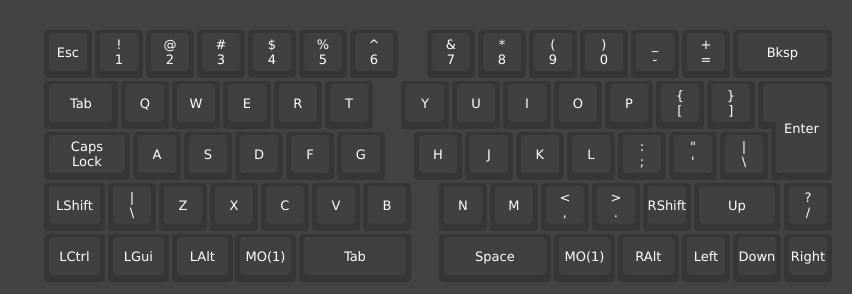
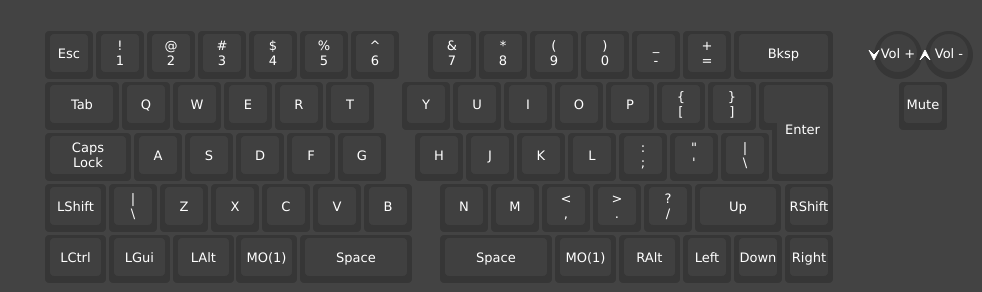
update images and delate and unnecessary KC_code

diff --git a/keymaps/vial/keymap.c b/keymaps/vial/keymap.c
@@ -53,7 +53,7 @@ const uint16_t PROGMEM keymaps[][MATRIX_ROWS][MATRIX_COLS] = {
 // Layer 2: _SECOND - Fn Layer (tasti funzione)
     [2] = LAYOUT_g(
 //  ┌─────────┬──────────┬──────────┬──────────┬──────────┬──────────┬──────────┬    ┌─────────┬──────────┬────────────┬──────────┬──────────┬──────────┬──────────────────┐
-     _______,   KC_BRIU,    KC_BRID,  _______,   KC_MUTE,   KC_VOLU,    KC_VOLD,      _______,   _______,     _______,    _______, LGUI(KC_SPACE), _______,       KC_SLEP,
+     _______,   KC_BRIU,    KC_BRID,  _______,   KC_MUTE,   KC_VOLU,    KC_VOLD,      _______,   _______,     _______,    _______, _______,     _______,       KC_SLEP,
 //  ├─────────┴────┬─────┴────┬─────┴────┬─────┴────┬─────┴────┬─────┴────┬─────┴    ├───┬─────┴── ──┬─────┴─────┬─────┴────┬─────┴────┬─────┴────┬─────┴────┬─────────────┤   ┌───────────┐
         _______,      _______,    _______,    _______,   _______,   _______,    _______,  _______,   _______,      _______,   _______,   _______,   _______,                      _______,
 //  ├──────────────┴─┬────────┴─┬────────┴┬─────────┴┬─────────┴┬─────────┴─     ├───────┴─┬─────────┴┬──────────┴┬─────────┴┬─────────┴┬─── ─────┴┬─────────┴───┬         ┤   └───────────┘
@@ -71,7 +71,7 @@ const uint16_t PROGMEM keymaps[][MATRIX_ROWS][MATRIX_COLS] = {
 const uint16_t PROGMEM encoder_map[][NUM_ENCODERS][2] = {
     [0] =   { ENCODER_CCW_CW(KC_VOLU, KC_VOLD),   },
     [1] =   { ENCODER_CCW_CW(KC_BRIU, KC_BRID),   },
-    [2] =   { ENCODER_CCW_CW(KC_BRIU, KC_BRID),   },
+    [2] =   { ENCODER_CCW_CW(KC_TRNS, KC_TRNS),   },
     //                  Encoder 1                                     
 };
 #endif
